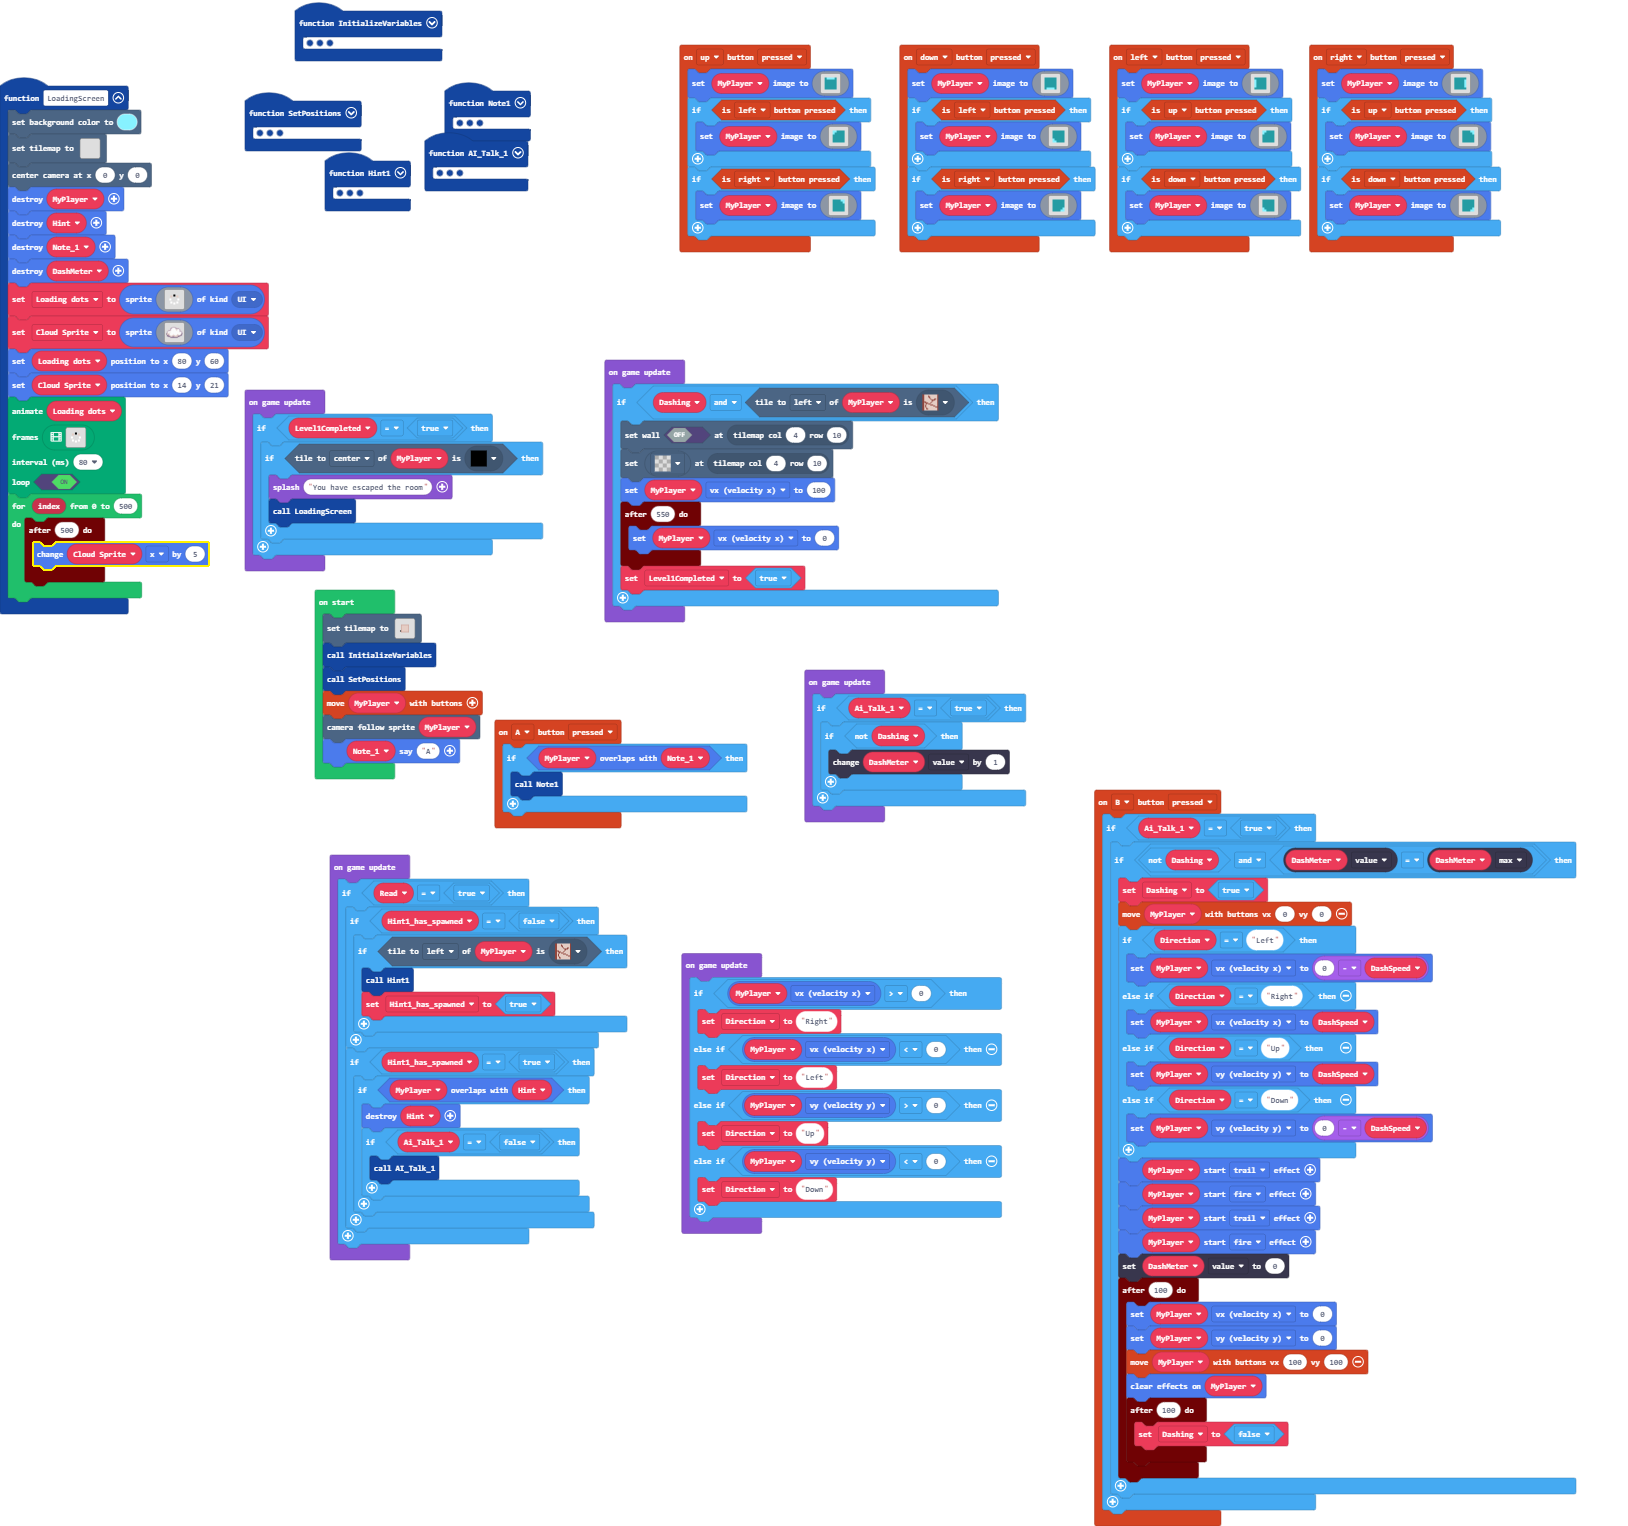
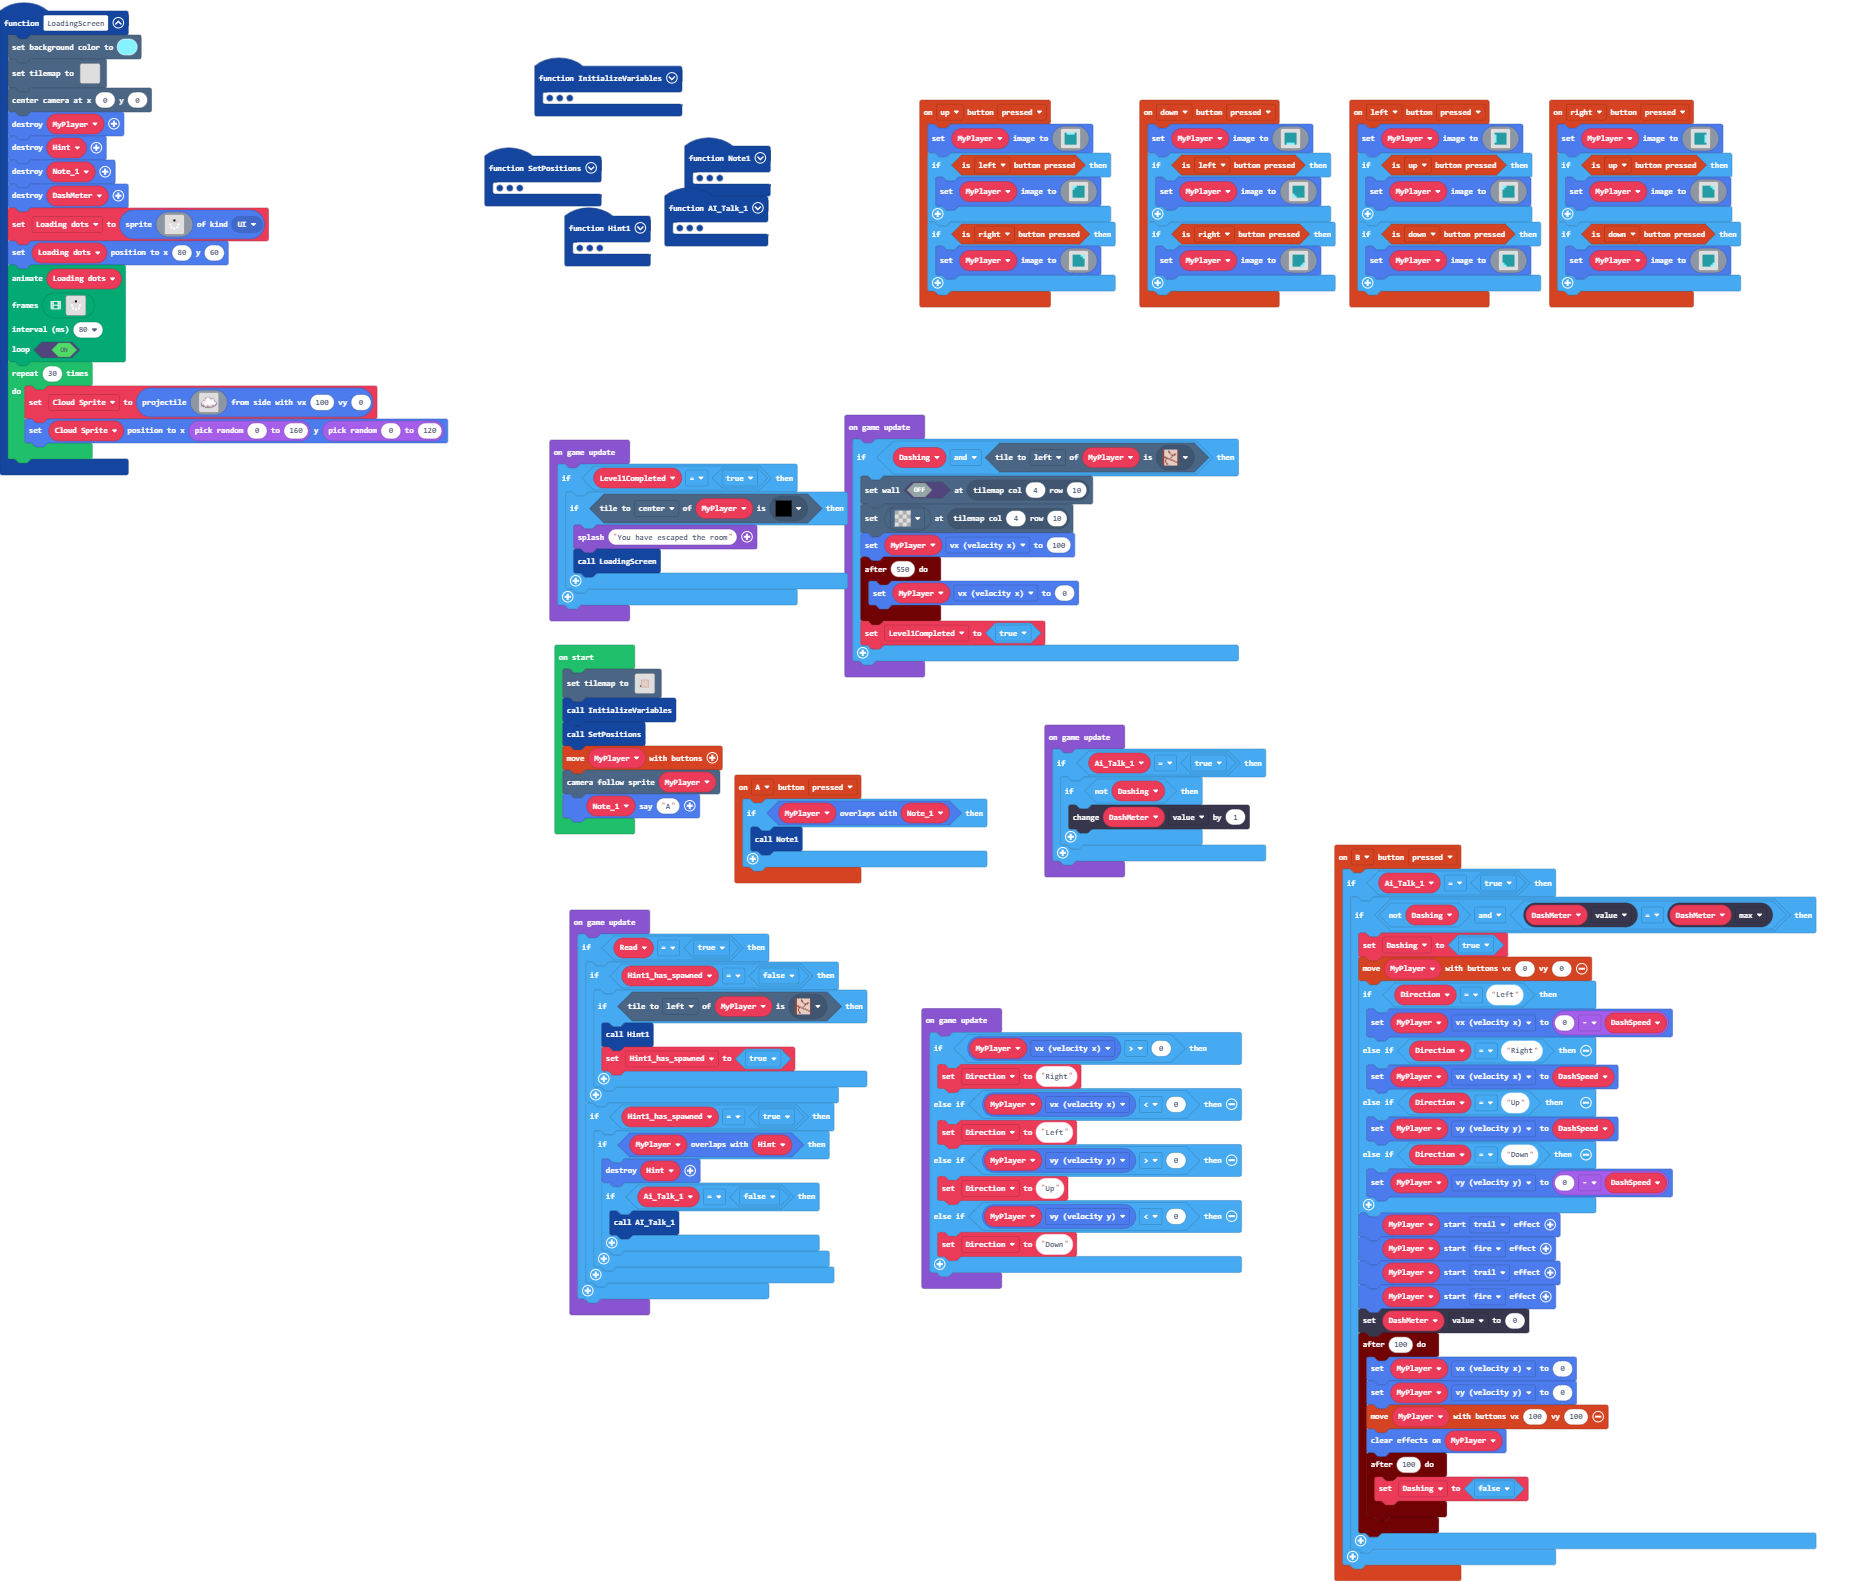
Update main.blocks, main.ts

diff --git a/main.ts b/main.ts
@@ -117,19 +117,16 @@ function LoadingScreen () {
     Note_1.destroy()
     DashMeter.destroy()
     Loading_dots = sprites.create(assets.image`Loading dots`, SpriteKind.UI)
-    Cloud_Sprite = sprites.create(assets.image`Cloud`, SpriteKind.UI)
     Loading_dots.setPosition(80, 60)
-    Cloud_Sprite.setPosition(14, 21)
     animation.runImageAnimation(
     Loading_dots,
     assets.animation`Loading Dots`,
     80,
     true
     )
-    for (let index = 0; index <= 500; index++) {
-        timer.after(500, function () {
-            Cloud_Sprite.x += 5
-        })
+    for (let index = 0; index < 30; index++) {
+        Cloud_Sprite = sprites.createProjectileFromSide(assets.image`Cloud`, 100, 0)
+        Cloud_Sprite.setPosition(randint(0, 160), randint(0, 120))
     }
 }
 function InitializeVariables () {
